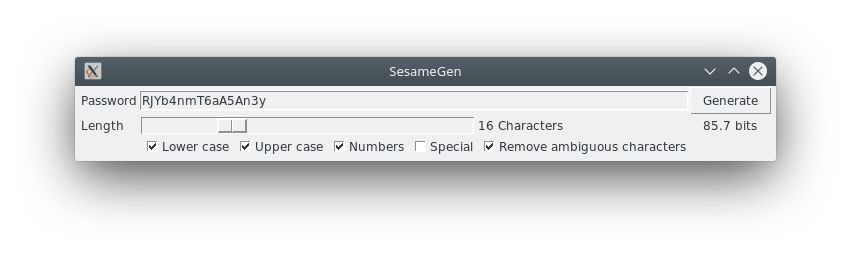
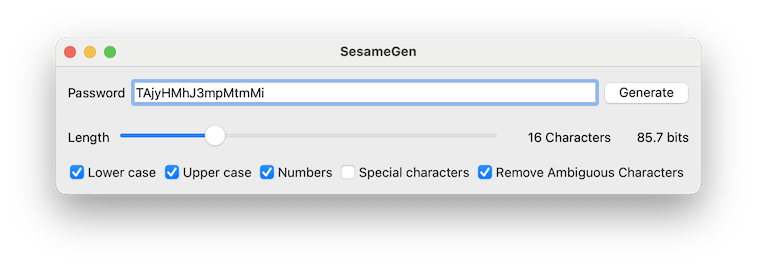
Update alignment

Changed region(s): [[0.0608, 0.1654, 0.9419, 0.7992], [0.5469, 0.4685, 0.6684, 0.5236]]

diff --git a/sesamegen/gui.py b/sesamegen/gui.py
@@ -40,11 +40,15 @@ class MainWindow(QMainWindow):
 
         self.number_of_characters_label = QLabel()
         self.number_of_characters_label.setMinimumWidth(100)
-        self.number_of_characters_label.setAlignment(Qt.AlignmentFlag.AlignRight)
+        self.number_of_characters_label.setAlignment(
+            Qt.AlignmentFlag.AlignRight | Qt.AlignmentFlag.AlignVCenter
+        )
 
         self.entropy_label = QLabel()
         self.entropy_label.setMinimumWidth(70)
-        self.entropy_label.setAlignment(Qt.AlignmentFlag.AlignRight)
+        self.entropy_label.setAlignment(
+            Qt.AlignmentFlag.AlignRight | Qt.AlignmentFlag.AlignVCenter
+        )
 
         self.lower_case = QCheckBox("Lower case")
         self.lower_case.setChecked(True)
